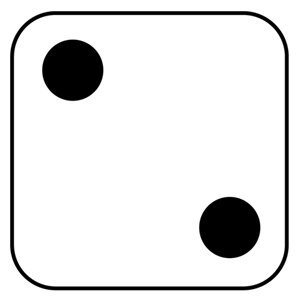
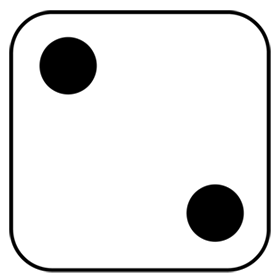
Added die images
Added initial die image. Edited for uniform img size. Centered die in player1/player2 blocks. Added functionality to change die image according to roll.

diff --git a/game.js b/game.js
@@ -9,32 +9,33 @@ const player2 = document.getElementById('player2')
 const player1Scoreboard = document.getElementById('player1Scoreboard')
 const player2Scoreboard = document.getElementById('player2Scoreboard')
 const player1Dice = document.getElementById('player1Dice')
+const img1 = document.getElementById('img1')
+
 const player2Dice = document.getElementById('player2Dice')
+const img2 = document.getElementById('img2')
 const rollBtn = document.getElementById('rollBtn')
 const resetBtn = document.getElementById('resetBtn')
 // Program Necessary Variables
 let randomNumber
-let dieImg = ''
-// const imgArr = ['images/1.png', 'images/2.png', 'images/3.png', 'images/14.png', 'images/5.png', 'images/6.png', ]
+// let dieImg = ''
+
 
 // Event Listeners
 rollBtn.addEventListener('click', function() {
     // get number from 1-6
     randomNumber = Math.floor(Math.random() * 6) + 1
-    // getDieImg(randomNumber)
+    
     if (player1Turn) {
-        // displayDie()
         player1Score += randomNumber
         player1Scoreboard.textContent = player1Score
-        player1Dice.textContent = randomNumber
+        img1.src = getDieImg(randomNumber)
         player1.classList.remove('active')
         player2.classList.add('active')
         message.textContent = 'Player Two 🏁'
     } else {
-        // displayDie()
         player2Score += randomNumber
         player2Scoreboard.textContent = player2Score
-        player2Dice.textContent = randomNumber
+        img2.src = getDieImg(randomNumber)
         player2.classList.remove('active')
         player1.classList.add('active')
         message.textContent = 'Player One 🏁'
@@ -42,21 +43,17 @@ rollBtn.addEventListener('click', function() {
 
     // check if either player is the winner & change message/buttons
     if (player1Score >= 20) {
-        message.textContent = 'Player One Won! 🥳'
-        player1.classList.remove('active')
-        player2.classList.remove('active')
+        message.textContent = 'Player One Wins! 🥳'
+        removeActiveClassesAtGameEnd()
         player1.classList.add('winner')
         player2.classList.add('loser')
-        rollBtn.style.display = 'none'
-        resetBtn.style.display = 'block'
+        changeBtns()
     } else if (player2Score >= 20) {
-        message.textContent = 'Player Two Won! 🎉'
-        player1.classList.remove('active')
-        player2.classList.remove('active')
+        message.textContent = 'Player Two Wins! 🎉'
+        removeActiveClassesAtGameEnd()
         player2.classList.add('winner')
         player1.classList.add('loser')
-        rollBtn.style.display = 'none'
-        resetBtn.style.display = 'block'
+        changeBtns()
     }
 
     // switch player turns
@@ -68,37 +65,37 @@ resetBtn.addEventListener('click', function(){
 }) 
 
 // Functions
-// function getDieImg(randomNumber) {
-//     switch(randomNumber) {
-//         case 1:
-//             dieImg = 'images/1.png'
-//             break
-//         case 2:
-//             dieImg = 'images/2.png'
-//             break
-//         case 3: 
-//             dieImg = 'images/3.png'
-//             break
-//         case 4: 
-//             dieImg = 'images/4.png'
-//             break
-//         case 5: 
-//             dieImg = 'images/5.png'
-//             break
-//         case 6: 
-//             dieImg = 'images/5.png'
-//             break
-//     }
-// }
+function getDieImg(randomNumber) {
+    let dieImg = ''
+    switch(randomNumber) {
+        case 1:
+            dieImg = 'images/1.png'
+            break
+        case 2:
+            dieImg = 'images/2.png'
+            break
+        case 3: 
+            dieImg = 'images/3.png'
+            break
+        case 4: 
+            dieImg = 'images/4.png'
+            break
+        case 5: 
+            dieImg = 'images/5.png'
+            break
+        case 6: 
+            dieImg = 'images/6.png'
+            break
+    }
+    return dieImg
+}
 
-// function displayDie(dieImg) {
-//     if (player1Turn) {
-//         let img1 = document.createElement('img')
-//         img1.src = dieImg
-//         player1Dice.appendChild(img1)
-//     } else {
-//         let img2 = document.createElement('img')
-//         img2.src = dieImg
-//         player2Dice.appendChild(img2)
-//     }
-// }
+function removeActiveClassesAtGameEnd() {
+    player1.classList.remove('active')
+    player2.classList.remove('active')
+}
+
+function changeBtns() {
+    rollBtn.style.display = 'none'
+        resetBtn.style.display = 'block'
+}

diff --git a/index.html b/index.html
@@ -17,12 +17,16 @@
         <div class="players">
             <div id="player1" class="player active">
                 <h2>Score: <span id="player1Scoreboard">0</span></h2>
-                <div id="player1Dice" class="dice">-</div>
+                <div id="player1Dice" class="dice">
+                    <img src="images/dice.png" id="img1" alt="dice">
+                </div>
             </div>
 
             <div id="player2" class="player">
                 <h2>Score: <span id="player2Scoreboard">0</span></h2>
-                <div id="player2Dice" class="dice">-</div>
+                <div id="player2Dice" class="dice">
+                    <img src="images/dice.png" id="img2" alt="dice">
+                </div>
             </div>
         </div>
 

diff --git a/style.css b/style.css
@@ -84,6 +84,12 @@ button {
     gap: 2rem;
 }
 
+#player1,
+#player2 {
+    display: grid;
+    place-items: center;
+}
+
 .dice {
     width: clamp(5em, 3.5000em + 6.6667vw, 7em);
 }
